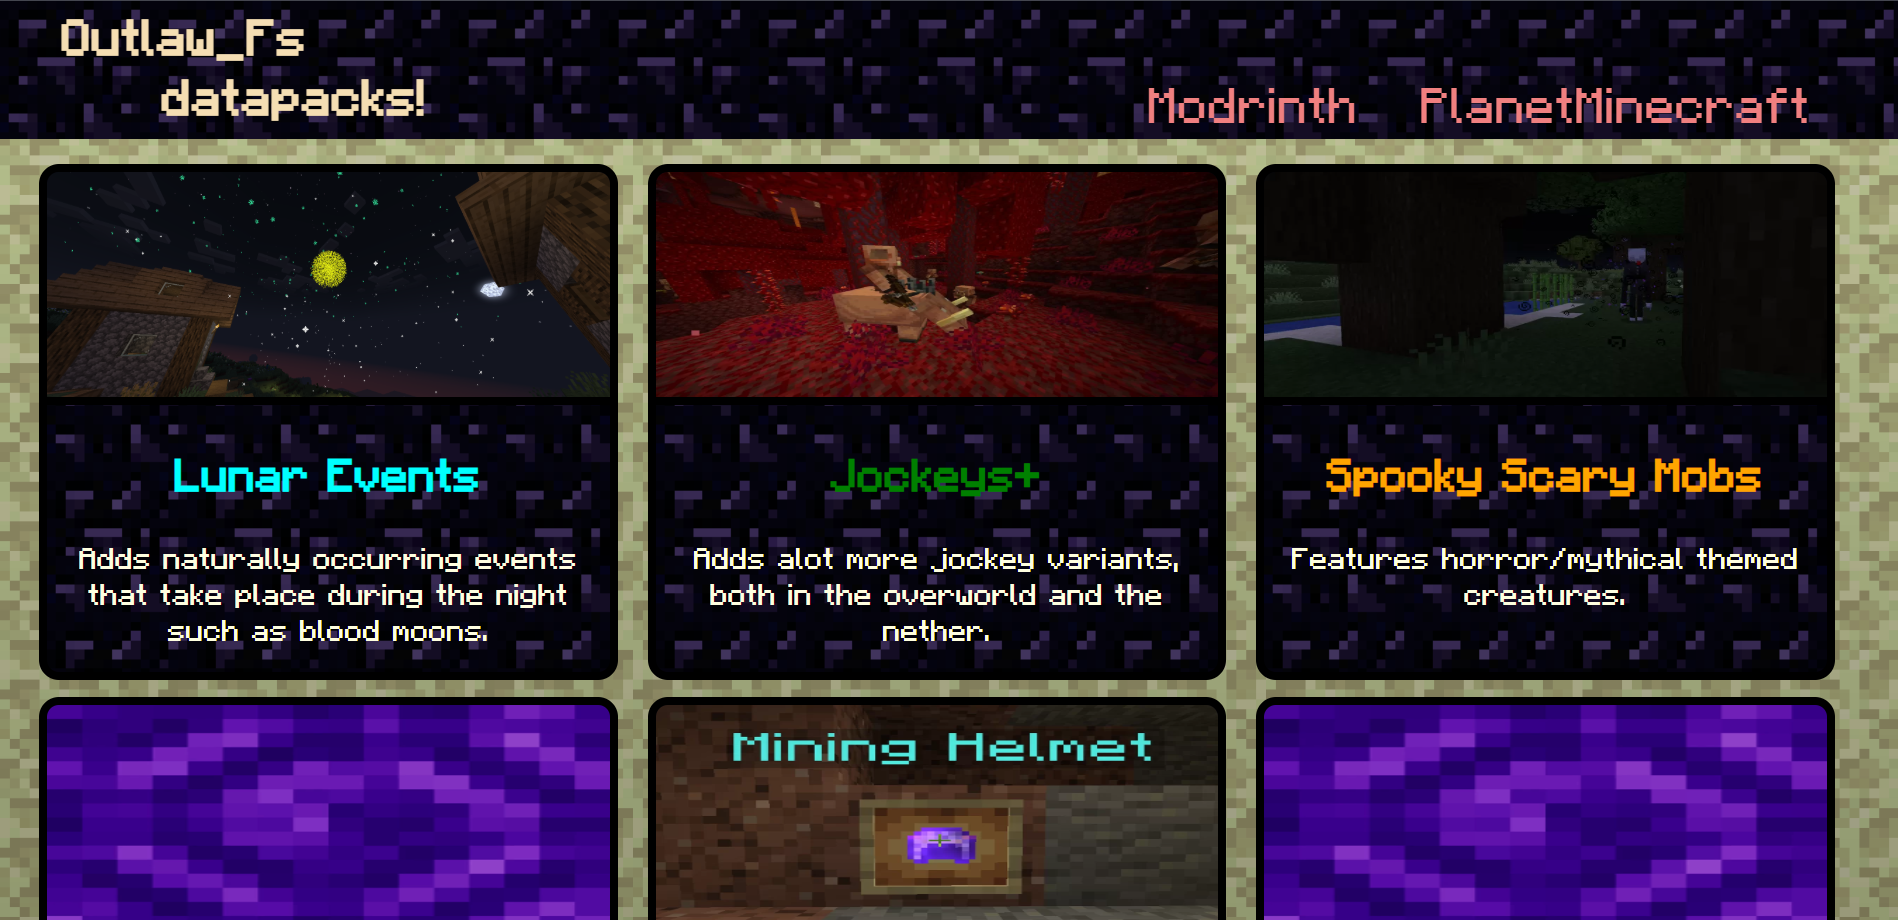
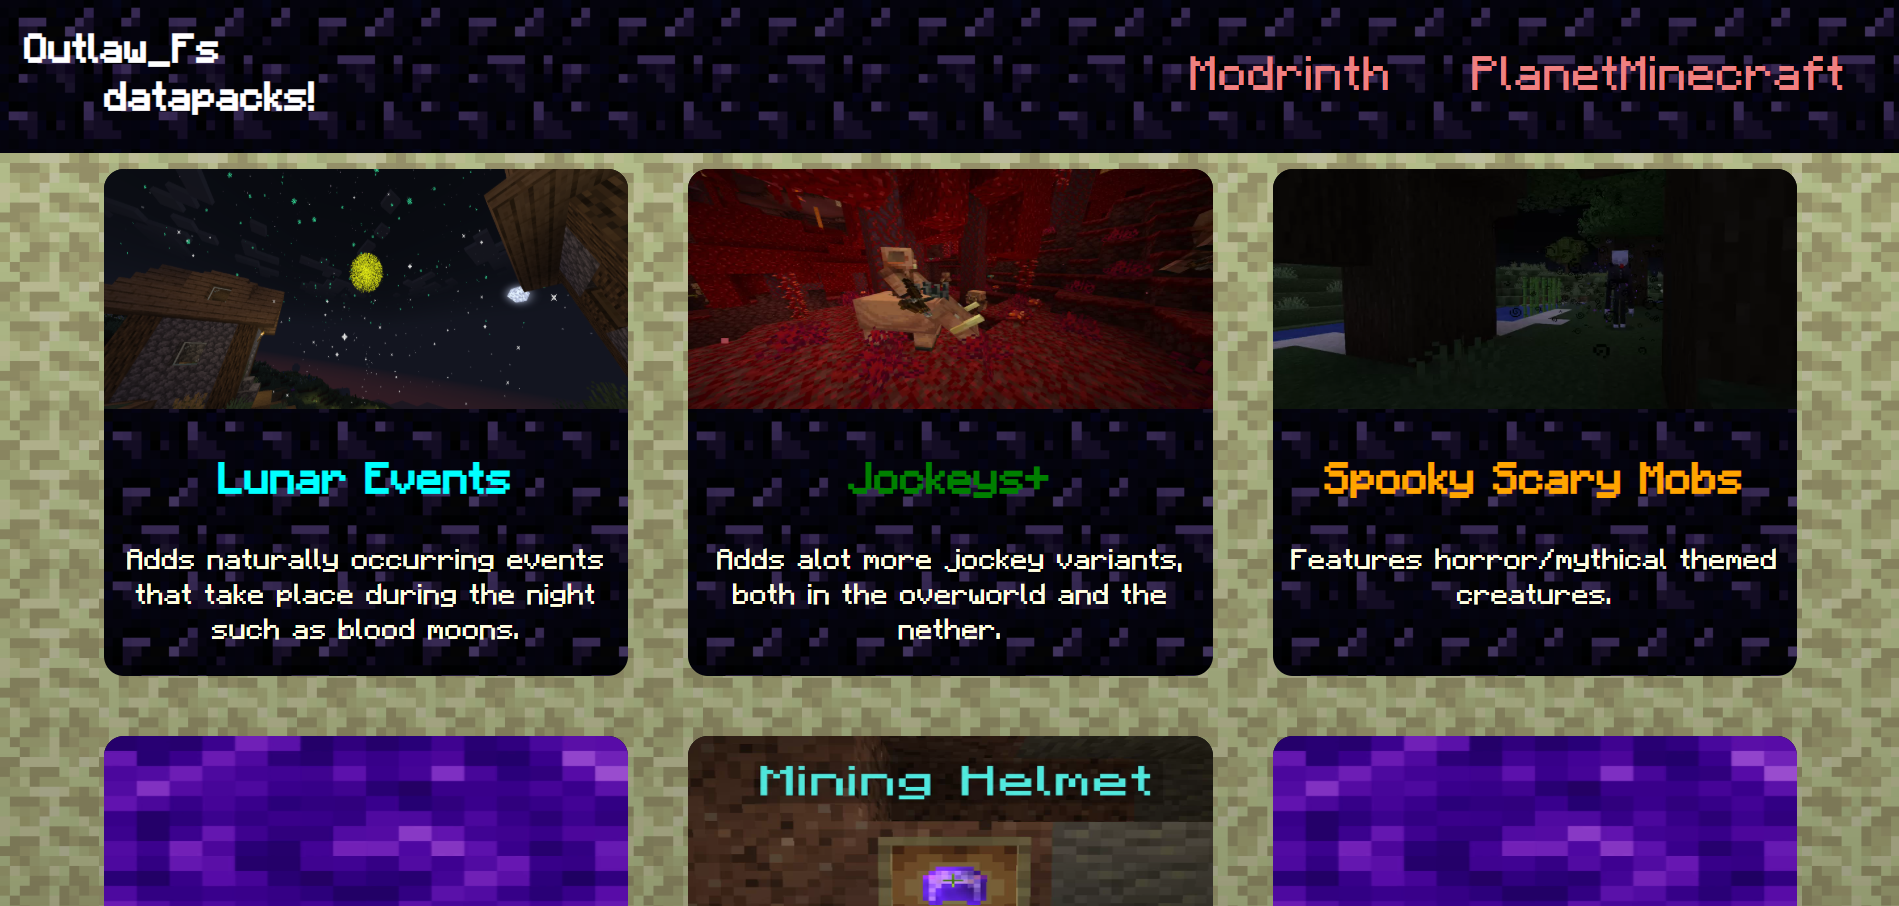
feat: New blog

diff --git a/docs/projects.html b/docs/projects.html
@@ -46,18 +46,16 @@
   
                 <div class="column">
                     <div class="freelance"><b>Freelance</b></div>
-                    <img src="images/demo/employer-portal.png">
-                    <div class="title">
+                    <iframe src="https://www.youtube.com/embed/5unhpdy2-mU" title="Freelance Work Portal Demo" frameborder="0" allow="accelerometer; autoplay; clipboard-write; encrypted-media; gyroscope; picture-in-picture; web-share" referrerpolicy="strict-origin-when-cross-origin" allowfullscreen></iframe>                    <div class="title">
                         <h2>Work Portal</h2>
                         <img src="images/python.webp">
                     </div>
                     <div class="desc">
                         <div class="brief">
                             <p><b>Python</b> desktop app featuring a employer interface for creating & managing employee records, and employee interface for associated PDF uploads like CVs. Built with <b>PySide6</b> and uses <b>MongoDB</b> for persistent storage.</p><br>
-                            <p>Developed for <a href="mailto:provathkibria@gmail.com" target="_blank">Provath Kibria</a>. Available for verification upon request.</p>
                         </div>
                         <br>
-                        <i>In Progress // Source code is private due to client agreement.</i>
+                        <i>Source code is private due to client agreement.</i>
                     </div>
                 </div> 
 
@@ -79,8 +77,23 @@
             </section>
 
             <h1>Additional Projects (4)</h1>
-            
+
             <section class="projects">
+                <div class="column">
+                    <img src="images/demo/sinisterweb.gif">
+                    <div class="title">
+                        <h2>Sinister Web</h2>
+                        <img src="images/godot.png">
+                    </div>
+                    <div class="desc">
+                        <div class="brief">
+                            <p>Click and point, multiple options horror-thriller video game that's inspired by the horrors of the dark web. This prototype was made using <b>Godot 4.0</b> and <b>GDscript</b> and pixel art was done by myself.</p>
+                        </div>
+                        <a href="https://github.com/faizanA786/sinister-web" target="_blank"><img src="images/github.png"></a>
+                        <a href="https://outlaw-f.itch.io/sinister-web" target="_blank"><img src="images/itchio.png"></a>
+                    </div>
+                </div> 
+
                 <div class="column">
                     <div class="uppercorner"><img id="2" src="images/fullscreen.png"></div>
                     <img src="images/demo/blackjack.gif">
@@ -112,20 +125,6 @@
                     </div>
                 </div>  
 
-                <div class="column">
-                    <img src="images/demo/sinisterweb.gif">
-                    <div class="title">
-                        <h2>Sinister Web</h2>
-                        <img src="images/godot.png">
-                    </div>
-                    <div class="desc">
-                        <div class="brief">
-                            <p>Click and point, multiple options horror-thriller video game that's inspired by the horrors of the dark web. This prototype was made using <b>Godot 4.0</b> and <b>GDscript</b> and pixel art was done by myself.</p>
-                        </div>
-                        <a href="https://github.com/faizanA786/sinister-web" target="_blank"><img src="images/github.png"></a>
-                        <a href="https://outlaw-f.itch.io/sinister-web" target="_blank"><img src="images/itchio.png"></a>
-                    </div>
-                </div>  
 
                 <div class="column">
                     <img src="images/demo/minecraft.png">
@@ -136,7 +135,7 @@
                     </div>
                     <div class="desc">
                         <div class="brief">
-                            <p>Portfolio website to showcase my custom Minecraft datapacks. Built with <b>HTML</b> and <b>CSS</b>, the website highlights each datapack with detailed descriptions and their corresponding download links. It serves as a centralized hub for players to explore my creations and easily access them.</p>
+                            <p>Showcases my custom-coded Minecraft datapacks with up to <b>1k+ downloads</b>, serving as a centralized hub for players to explore my creations and easily access them.</p>
                         </div>
                         <a href="https://github.com/faizanA786/mcdatapacks-portfolio" target="_blank"><img src="images/github.png"></a>
                         <a href="https://outlawf-datapacks.netlify.app/" target="_blank"><img src="images/website.png"></a>

diff --git a/docs/blog.html b/docs/blog.html
@@ -30,6 +30,14 @@
                         
                         <div class="row">
                             <div class="blogtitle">
+                                <h2>Preparing for Placements</h2>
+                                <em>2025-07-01</em>
+                            </div>
+                            <p>This month I’m committing to a structured placement preparation plan that covers technical skill-building, real-world project work and aptitude test practice. Every day I’m solving one easy and one medium Leetcode problem to build fluency with algorithms and data structures aiming for consistent progress. Alongside that, I’m building a full-stack placement tracker web app using React and Java with Spring Boot which is meant to be a product that helps students manage their internship applications with features like deadline reminders and visual dashboards. To round it out, I’m using practiceaptitudetests.com to regularly complete numerical reasoning, verbal reasoning and situational judgement tests focusing on speed, accuracy and pattern recognition under time pressure. By the end of July, I want to have shipped a live MVP, completed 100 coding problems and sharpened my performance in real aptitude test formats so I can maximise my chances of landing a placement year once they open in August.</p>
+                        </div>
+                        
+                        <div class="row">
+                            <div class="blogtitle">
                                 <h2>Spring Week Rejections: What I Learned</h2>
                                 <em>2025-06-05</em>
                             </div>

diff --git a/docs/experience.html b/docs/experience.html
@@ -52,7 +52,7 @@
             </article>
 
             <article>
-            <h1>Work History</h1>
+            <h1>Work Experience</h1>
                 <section class="work">
 
                     <div class="row">
@@ -61,7 +61,7 @@
                                 <h3>Supermarket Assistant</h3>
                                 <em>Waitrose & Partners</em>
                             </div>
-                            <em>May 2025 - Present</em>
+                            <em>May 2025 - July 2025</em>
                         </div>
                         <ul>
                             <li>Delivered checkout and self-checkout support to 100+ customers per shift, resolving technical and payment issues.</li>

diff --git a/docs/css/projects.css b/docs/css/projects.css
@@ -97,7 +97,7 @@ article {
     background-color: rgba(0,0,0,0.4);
     text-align: center;
     border-radius: 0.25rem;
-    img {
+    img, iframe {
         border-top-left-radius: 0.25rem;
         border-top-right-radius: 0.25rem;
         width: 100%;
@@ -178,7 +178,7 @@ article {
     flex-direction: column;
     align-items: center;
     justify-content: center;
-    width: 80%;
+    width: 85%;
 }
 
 /* ----------------------- MOBILE view -------------------- */

diff --git a/blog_template.html b/blog_template.html
@@ -18,7 +18,7 @@
                     <li><a href="index.html"><p>About</p></a></li>
                     <li><a href="experience.html"><p>Experience</p></a></li>
                     <li><a href="projects.html"><p>Projects</p></a></li>
-                    <li><a href=""><p><u>Blog</u></a></p></li>
+                    <li><a href=""><p>Blog</a></p></li>
                 </ul>
             </nav>
         </header>
